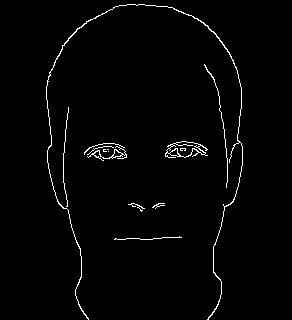
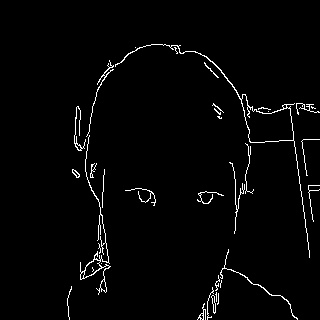
combine the code

diff --git a/WebContent/HTML/TakePicture2.html b/WebContent/HTML/TakePicture2.html
@@ -84,10 +84,15 @@
 	$(document).ready(function() {
 		$("#u8").click(function () {
 			$.post("/BodyEvolutionRecord/ViewPicture", { }, function (data, status) {      
-			    if (status == "success") {      
+			    if (status == "success") {  
+			    	var strs= new Array(); //定义一数组 
+			    	strs=data.split(","); //字符分割 
 	                $("#pictest").remove(); 
+	                $("#picline").remove(); 
 	                
-			    	$("#u4").append("<img id='pictest' class='img' src='"+data+"'/>");
+			    	$("#u4").append("<img id='pictest' class='img' src='"+strs[0]+"'/>");
+			    	$("#pictest").append("<img id='picline' class='img' src='"+strs[1]+"'/>");
+			    	
 			       // $("#u4_img").remove();
 			    
 			    }     
@@ -162,6 +167,19 @@
 				<p>
 					<span
 						style="font-family: 'ArialHebrewScholar', 'Arial Hebrew Scholar';">View</span>
+				</p>
+			</div>
+		</div>
+		
+		<!-- Unnamed (Shape) -->
+		<div id="u13" class="ax_shape">
+			<img id="u13_img" class="img "
+				src="/BodyEvolutionRecord/images/TakePhoto/u6.png" />
+			<!-- Unnamed () -->
+			<div id="u14" class="text">
+				<p>
+					<span
+						style="font-family: 'ArialHebrewScholar', 'Arial Hebrew Scholar';">Make Video</span>
 				</p>
 			</div>
 		</div>

diff --git a/WebContent/css/TakePicture2.css b/WebContent/css/TakePicture2.css
@@ -9,7 +9,7 @@
 #snap{
   position:absolute;
   left:500px;
-  top:230px;
+  top:200px;
   width:100px;
   height:30px;
 
@@ -105,7 +105,7 @@ body {
 #u6 {
   position:absolute;
   left:500px;
-  top:230px;
+  top:200px;
   width:100px;
   height:30px;
 }
@@ -126,7 +126,7 @@ body {
 #u8 {
   position:absolute;
   left:500px;
-  top:310px;
+  top:270px;
   width:100px;
   height:30px;
 }
@@ -200,4 +200,39 @@ body {
   top:-61px;
   width:450px;
   height:330px;
+}
+#picface{
+  position:absolute;
+  left:660px;
+  top:0px;
+  width:450px;
+  height:330px;
+}
+#picline{
+  position:absolute;
+  left:660px;
+  top:10px;
+  width:450px;
+  height:330px;
+}
+#u13 {
+  position:absolute;
+  left:500px;
+  top:340px;
+  width:100px;
+  height:30px;
+}
+#u13_img {
+  position:absolute;
+  left:0px;
+  top:0px;
+  width:100px;
+  height:30px;
+}
+#u14 {
+  position:absolute;
+  left:2px;
+  top:8px;
+  width:96px;
+  word-wrap:break-word;
 }

diff --git a/src/com/servlet/TakePicture.java b/src/com/servlet/TakePicture.java
@@ -15,10 +15,22 @@ import javax.servlet.http.HttpServlet;
 import javax.servlet.http.HttpServletRequest;
 import javax.servlet.http.HttpServletResponse;
 import javax.servlet.http.HttpSession;
+import org.opencv.core.*;
+
+//import main.ImageProcess;
+
+
+
+
+
+
+import main.ImageProcess;
 
 import com.javabeans.ConnectDB;
 
 import sun.misc.BASE64Decoder;
+
+
 
 
 
@@ -40,6 +52,9 @@ public class TakePicture extends HttpServlet {
 	/**
 	 * @see HttpServlet#doGet(HttpServletRequest request, HttpServletResponse response)
 	 */
+
+
+	@SuppressWarnings("static-access")
 	protected void doGet(HttpServletRequest request, HttpServletResponse response) throws ServletException, IOException {
 		// TODO Auto-generated method stub
 		request.setCharacterEncoding("UTF-8");
@@ -60,33 +75,45 @@ public class TakePicture extends HttpServlet {
 		}
 		HttpSession session = request.getSession();
 		Random rd = new Random();   
-		int c = rd.nextInt(1000)+1;   
+		int c = rd.nextInt(1000)+1; 
+		int d=rd.nextInt(500)+1;
 		String ranStr = String.valueOf(c);  
+		String ranStr1=String.valueOf(d);
 		String username=session.getAttribute("name").toString() ;
 		String imageName = username +ranStr+"pic.jpg";//随机生成照片路径，区分用户
+		String imagefaceName=username+ranStr1+"picline.jpg";//勾出轮廓后照片的路径
 		
 		String relativePath = getServletContext().getContextPath() + "/IMAGE/" + imageName;//存在数据库中的路径
+		String relativePath1=getServletContext().getContextPath() + "/IMAGE/" + imagefaceName;
 		System.out.println(relativePath);
+		System.out.println(relativePath1);
 	//	String path = request.getParameter("relativepath");
+		
 
 		
-		String[] sqlparam = {username,relativePath};
+		String[] sqlparam = {username,relativePath,relativePath1};
 		String[] sqlparam1 = {relativePath,username};
-		int[] WhichInt = {0,0};
+		String[] sqlparam2 = {relativePath1,username};
+		int[] WhichInt = {0,0,0};
 		int[] WhichInt1={0,0};
-		String sqlString = "insert into Picture (UserName,Pic) values(?,?)";
+		int[] WhichInt2={0,0};
+		String sqlString = "insert into Picture (UserName,Pic,Picline) values(?,?,?)";
 		String sqlString1="update Login set Pic=? where UserName=?";
+		String sqlString2="update Login set Picline=? where UserName=?";
 		
 		ConnectDB connect = new ConnectDB();
 		boolean isSuccess = connect.updatesql(sqlString, sqlparam, WhichInt);
 		boolean isSuccess1= connect.updatesql(sqlString1, sqlparam1, WhichInt1);
+		boolean isSuccess2= connect.updatesql(sqlString2, sqlparam2, WhichInt2);
 		
-		if(isSuccess&&isSuccess1){
+		if(isSuccess&&isSuccess1&&isSuccess2){
 			System.out.println("true");
 		} else {
 			System.out.println("false");
 		}
 		String obsolutelyPath = getServletContext().getRealPath("IMAGE")+File.separatorChar + imageName;
+		System.out.println(obsolutelyPath);
+		String obsolutelyPath1 = getServletContext().getRealPath("IMAGE")+File.separatorChar + imagefaceName; 
 		
 
 		String imageString = request.getParameter("img");	
@@ -96,6 +123,7 @@ public class TakePicture extends HttpServlet {
 		try{
 			BASE64Decoder decoder = new BASE64Decoder();
 			OutputStream  writes = new FileOutputStream(obsolutelyPath);
+		//	OutputStream  writes1 = new FileOutputStream(obsolutelyPath1);
 	        
 	        byte[] decoderBytes = decoder.decodeBuffer(imageString);
 	        for (int i = 0; i < decoderBytes.length; i++) {
@@ -106,7 +134,18 @@ public class TakePicture extends HttpServlet {
 	        writes.write(decoderBytes);
 	        writes.flush();
 	        writes.close();
+	    
+	      /*  writes1.write(decoderBytes);
+	        writes1.flush();
+	        writes1.close();*/
 	        System.out.println("Decoding the picture Success");
+	        
+	       // ImageProcess ip=new ImageProcess();//处理图像
+	        //ip.run(obsolutelyPath, obsolutelyPath1);
+	    
+	       ImageProcess IP=new ImageProcess();
+	       IP.run(obsolutelyPath,obsolutelyPath1);
+	        
 	        out.print("OK");
             
         } catch (FileNotFoundException e) {

diff --git a/src/com/servlet/ViewPicture.java b/src/com/servlet/ViewPicture.java
@@ -47,6 +47,7 @@ public class ViewPicture extends HttpServlet {
 	
 		//System.out.println(pic);
 		PrintWriter out = response.getWriter();
+	//	PrintWriter out1=response.getWriter();
 		
 		
 		request.setCharacterEncoding("UTF-8");
@@ -60,18 +61,19 @@ public class ViewPicture extends HttpServlet {
 	//	HttpSession session = request.getSession();
 		ConnectDB connect = new ConnectDB();
 		String[] sqlparam = {username};
-		int[] WhichInt = {0};
-		ResultSet rsUserID= connect.executeQuery("select Pic from Login where UserName=?",sqlparam, WhichInt);
+		int[] WhichInt = {0,0};
+		ResultSet rsUserID= connect.executeQuery("select Pic,Picline from Login where UserName=?",sqlparam, WhichInt);
 		try {
 			if(rsUserID.next()){
-				if(rsUserID.getString("Pic")!=null){
+				if(rsUserID.getString("Pic")!=null&&rsUserID.getString("Picline")!=null){
 				 //   session.setAttribute("pic", rsUserID.getString("Pic"));
-				    out.print(rsUserID.getString("Pic"));
+				    out.print(rsUserID.getString("Pic")+","+rsUserID.getString("Picline"));
 				    System.out.println(rsUserID.getString("Pic"));
+				    System.out.println(rsUserID.getString("Picline"));
 				}
 				else{
 					//session.setAttribute("pic", "/BodyEvolutionRecord/images/userinfor/u4.png");
-					out.print("/BodyEvolutionRecord/images/userinfor/u4.png");
+					out.print("/BodyEvolutionRecord/images/userinfor/u4.png"+","+"/BodyEvolutionRecord/images/userinfor/u4.png");
 				}
 			}
 		} catch (SQLException e) {

diff --git a/src/main/ImageProcess.java b/src/main/ImageProcess.java
@@ -1,5 +1,7 @@
 package main;
 
+
+
 import org.opencv.core.Core;
 
 import contour.ContourReco;
@@ -11,7 +13,7 @@ public class ImageProcess {
 		// TODO Auto-generated method stub
 		
 		
-		String inputFile = "resources/AverageMaleFace.jpg";
+		String inputFile = "/Users/Daisy/documents/workspaceforEE/.metadata/.plugins/org.eclipse.wst.server.core/tmp0/wtpwebapps/BodyEvolutionRecord/IMAGE/yjq154pic.jpg";
 		String outputFile = "src/male_canny.jpg";
 		
 		run(inputFile, outputFile);

diff --git a/src/com/servlet/MainPage.java b/src/com/servlet/MainPage.java
@@ -62,7 +62,7 @@ public class MainPage extends HttpServlet {
 				
 				 //   session.setAttribute("pic", rsUserID.getString("Pic"));
 				    String tempresult=rsUserID.getString("Pic");
-				    result = result + "," + tempresult;
+				    result = tempresult + "," +result ;
 				   
 				    System.out.println(result);
 			}
